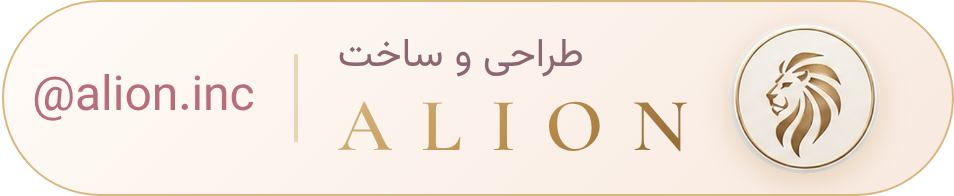
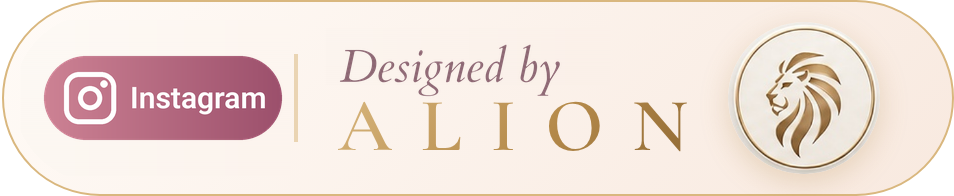
docs: new hero text, Designed by ALION badge, minimal README sections

Changed region(s): [[0.0304, 0.2755, 0.304, 0.7347], [0.3344, 0.2143, 0.608, 0.4898]]

diff --git a/README.md b/README.md
@@ -1,101 +1,64 @@
 <div align="center">
 
-<img src="docs/readme/hero.png" alt="Little Moon | سایکل ماهانه خصوصی، رایگان و آفلاین · Private, free and offline cycle tracker">
-
-<br>
-
-**هر ماه، یه قدم جلوتر از چرخهات**
-**Always one step ahead of your cycle**
+<img src="docs/readme/hero.png" alt="Little Moon | سایکل ماهانه خصوصی، رایگان و آفلاین">
 
 </div>
 
 <div dir="rtl">
 
-Little Moon پریود بعدی، تخمکگذاری و روزهای باروریت رو پیشبینی میکنه
-همهچیز فقط روی گوشی خودته: بدون حساب کاربری، بدون سرور و بدون تبلیغ
+Little Moon پریود بعدی، تخمکگذاری و روزهای باروری رو از روی ثبتهای خودت پیشبینی میکنه
+همهی اطلاعات فقط روی گوشی خودت میمونه: بدون حساب کاربری، بدون سرور و بدون تبلیغ
+
+## دریافت
 
 </div>
 
 <p align="center">
-Little Moon predicts your next period, ovulation and fertile days<br>
-Everything stays on your phone: no account, no server, no ads
+  <a href="https://cafebazaar.ir/app/ir.littlemoon"><img src="docs/buttons/bazaar.png" height="48" alt="دریافت از کافهبازار"></a>
+  <a href="https://myket.ir/app/ir.littlemoon"><img src="docs/buttons/myket.png" height="48" alt="دریافت از مایکت"></a>
+  <a href="https://github.com/Alion-co/littlemoon/releases/latest"><img src="docs/buttons/apk.png" height="48" alt="دانلود مستقیم APK"></a>
+  <a href="https://alion-co.github.io/littlemoon/"><img src="docs/buttons/web.png" height="48" alt="نسخهی وب"></a>
 </p>
 
 <div dir="rtl">
 
-## دریافت · Download
+## نگاهی به اپ
 
 </div>
 
 <p align="center">
-  <a href="https://cafebazaar.ir/app/ir.littlemoon"><img src="docs/buttons/bazaar.png" height="52" alt="دریافت از کافهبازار · Cafe Bazaar"></a>&nbsp;
-  <a href="https://myket.ir/app/ir.littlemoon"><img src="docs/buttons/myket.png" height="52" alt="دریافت از مایکت · Myket"></a>&nbsp;
-  <a href="https://github.com/Alion-co/littlemoon/releases/latest"><img src="docs/buttons/apk.png" height="52" alt="دانلود مستقیم APK · Direct APK"></a>&nbsp;
-  <a href="https://alion-co.github.io/littlemoon/"><img src="docs/buttons/web.png" height="52" alt="نسخهی وب · Web version"></a>
+  <img src="docs/screenshots/home.jpg" width="150" alt="خانه">
+  <img src="docs/screenshots/calendar.jpg" width="150" alt="تقویم">
+  <img src="docs/screenshots/insights.jpg" width="150" alt="تحلیل">
+  <img src="docs/screenshots/health.jpg" width="150" alt="سلامت">
+  <img src="docs/screenshots/profile.jpg" width="150" alt="پروفایل">
 </p>
 
 <div dir="rtl">
 
-## نگاهی به اپ · Preview
+## امکانات
 
 </div>
 
 <p align="center">
-  <img src="docs/screenshots/home.jpg" width="150" alt="خانه · Home">
-  <img src="docs/screenshots/calendar.jpg" width="150" alt="تقویم · Calendar">
-  <img src="docs/screenshots/insights.jpg" width="150" alt="تحلیل · Insights">
-  <img src="docs/screenshots/health.jpg" width="150" alt="سلامت · Health">
-  <img src="docs/screenshots/profile.jpg" width="150" alt="پروفایل · Profile">
-</p>
-
-<div dir="rtl">
-
-## امکانات · Features
-
-</div>
-
-<p align="center">
-  <img src="docs/readme/feat.png" alt="پیشبینی چرخه، ثبت سریع روزانه، تقویم شمسی و میلادی، تحلیل و الگوها، سلامت و فاز، یادآور و ویجت، گزارش پزشک، قفل پین و اثرانگشت، پشتیبانگیری · Cycle predictions, quick daily log, Shamsi and Gregorian calendars, insights, health and phases, reminders and widget, doctor report, PIN and fingerprint lock, backup">
+  <img src="docs/readme/feat.png" alt="پیشبینی چرخه، ثبت سریع روزانه، تقویم شمسی و میلادی، تحلیل و الگوها، سلامت و فاز، یادآور و ویجت، گزارش پزشک، قفل پین و اثرانگشت، پشتیبانگیری">
 </p>
 
 <div dir="rtl">
 
 ۵ زبان با پشتیبانی کامل راستبهچپ (فارسی، English، العربية، Español، Türkçe) · ۸ تم روشن و تیره · تقویم شمسی و میلادی
 
-</div>
+## حریم خصوصی
 
-<p align="center">
-5 languages with full RTL support · 8 light and dark themes · Shamsi and Gregorian calendars
-</p>
+همهی دادهها فقط روی گوشی خودت میمونه: بدون اینترنت، بدون ردیابی
 
-<div dir="rtl">
+## مشارکت
 
-## حریم خصوصی · Privacy
-
-دادههات فقط روی گوشی خودت میمونه، بدون اینترنت و بدون ردیابی
-
-</div>
-
-<p align="center">
-Your data never leaves your phone: no internet, no tracking
-</p>
-
-<div dir="rtl">
-
-## مشارکت · Contributing
-
-ایده یا مشکلی داری؟ [Issue](https://github.com/Alion-co/littlemoon/issues) یا Pull Request بفرست
+ایده یا مشکلی داری؟ توی [Issues](https://github.com/Alion-co/littlemoon/issues) بنویس یا Pull Request بفرست
 ترجمهها فایل `.arb` توی پوشهی `l10n/` هستن و برای اضافه کردن یه زبان لازم نیست کد بزنی
 
-</div>
-
-<p align="center">
-Got an idea or found a bug? Open an <a href="https://github.com/Alion-co/littlemoon/issues">Issue</a> or a Pull Request<br>
-Translations are <code>.arb</code> files in <code>l10n/</code>, no coding needed to add a language
-</p>
-
 <details>
-<summary>برای توسعهدهندهها · For developers</summary>
+<summary>برای توسعهدهندهها</summary>
 
 ```bash
 git clone https://github.com/Alion-co/littlemoon.git
@@ -104,56 +67,46 @@ flutter pub get
 flutter run
 ```
 
-Flutter 3.38+
+به Flutter نسخهی ۳.۳۸ یا بالاتر نیاز داره.
 
-- [Flutter](https://flutter.dev) & Dart
-- [Riverpod](https://riverpod.dev) + [go_router](https://pub.dev/packages/go_router)
-- [shared_preferences](https://pub.dev/packages/shared_preferences)
-- [flutter_local_notifications](https://pub.dev/packages/flutter_local_notifications)
-- [local_auth](https://pub.dev/packages/local_auth) + [home_widget](https://pub.dev/packages/home_widget)
-- [pdf](https://pub.dev/packages/pdf) + [printing](https://pub.dev/packages/printing)
+- [Flutter](https://flutter.dev) و Dart
+- [Riverpod](https://riverpod.dev) برای مدیریت وضعیت و [go_router](https://pub.dev/packages/go_router) برای مسیریابی
+- [shared_preferences](https://pub.dev/packages/shared_preferences) برای ذخیرهی محلی
+- [flutter_local_notifications](https://pub.dev/packages/flutter_local_notifications) برای یادآورهای آفلاین
+- [local_auth](https://pub.dev/packages/local_auth) برای اثرانگشت و [home_widget](https://pub.dev/packages/home_widget) برای ویجت اندروید
+- [pdf](https://pub.dev/packages/pdf) و [printing](https://pub.dev/packages/printing) برای گزارش پزشک
 
 ```
 lib/
-├── core/       # theme, l10n, routing, date & calendar utils
-├── data/       # models, local storage, repositories
-├── domain/     # cycle engine, reminders, notifications, backup
-├── features/   # home, calendar, insights, health, profile, settings, onboarding, about
-└── shared/     # shared widgets
+├── core/       # تم، بومیسازی، مسیریابی، ابزار تاریخ و تقویم
+├── data/       # مدلها، ذخیرهی محلی، repositoryها
+├── domain/     # موتور چرخه، یادآورها، اعلانها، پشتیبانگیری
+├── features/   # خانه، تقویم، تحلیل، سلامت، پروفایل، تنظیمات، شروع، درباره
+└── shared/     # ویجتهای مشترک
 ```
 
 </details>
 
-<div dir="rtl">
-
-## هشدار · Disclaimer
+## هشدار
 
 پیشبینیها فقط تخمینان؛ نه توصیهی پزشکیان و نه روش پیشگیری از بارداری
 
-</div>
+## مجوز
 
-<p align="center">
-Estimates only. Not medical advice and not contraception
-</p>
-
-<div dir="rtl">
-
-## مجوز · License
-
-رایگان برای هر استفادهی **غیرتجاری**، با مجوز [PolyForm Noncommercial 1.0.0](https://polyformproject.org/licenses/noncommercial/1.0.0) (جزئیات در [`LICENSE`](LICENSE))
-فونت وزیرمتن جداگانه با مجوز SIL OFL 1.1 منتشر شده
+Little Moon برای هر کاری که **غیرتجاری** باشه آزاده، با مجوز [PolyForm Noncommercial 1.0.0](https://polyformproject.org/licenses/noncommercial/1.0.0) (جزئیات در فایل [`LICENSE`](LICENSE))
+فونت وزیرمتن جداگانه با مجوز SIL Open Font License 1.1 منتشر شده
 
 </div>
 
 <p align="center">
-Free for <b>noncommercial</b> use under <a href="https://polyformproject.org/licenses/noncommercial/1.0.0">PolyForm Noncommercial 1.0.0</a> (see <a href="LICENSE"><code>LICENSE</code></a>)<br>
-Vazirmatn font is released separately under SIL OFL 1.1
+  <a href="https://instagram.com/alion.inc"><img src="docs/readme/credit.png" width="360" alt="Designed by ALION · Instagram"></a>
 </p>
 
-<br>
+<details>
+<summary>English</summary>
 
-<p align="center">
-  <b>Designed by Alion</b>
-  <br><br>
-  <a href="https://instagram.com/alion.inc"><img src="https://img.shields.io/badge/Instagram-alion.inc-E4405F?style=for-the-badge&logo=instagram&logoColor=white" alt="Instagram @alion.inc"></a>
-</p>
+**Little Moon** is a private, free and fully offline monthly cycle tracker. It predicts your next period, ovulation and fertile window from what you log, and keeps everything on your phone: no account, no server, no ads. Five languages with full right-to-left support, Shamsi and Gregorian calendars, eight themes, PIN and fingerprint lock, backup files and a PDF report for your doctor.
+
+Download from [Cafe Bazaar](https://cafebazaar.ir/app/ir.littlemoon), [Myket](https://myket.ir/app/ir.littlemoon) or the [latest release](https://github.com/Alion-co/littlemoon/releases/latest). Free for noncommercial use under the PolyForm Noncommercial License 1.0.0. Estimates only: not a medical device and not a method of contraception.
+
+</details>
